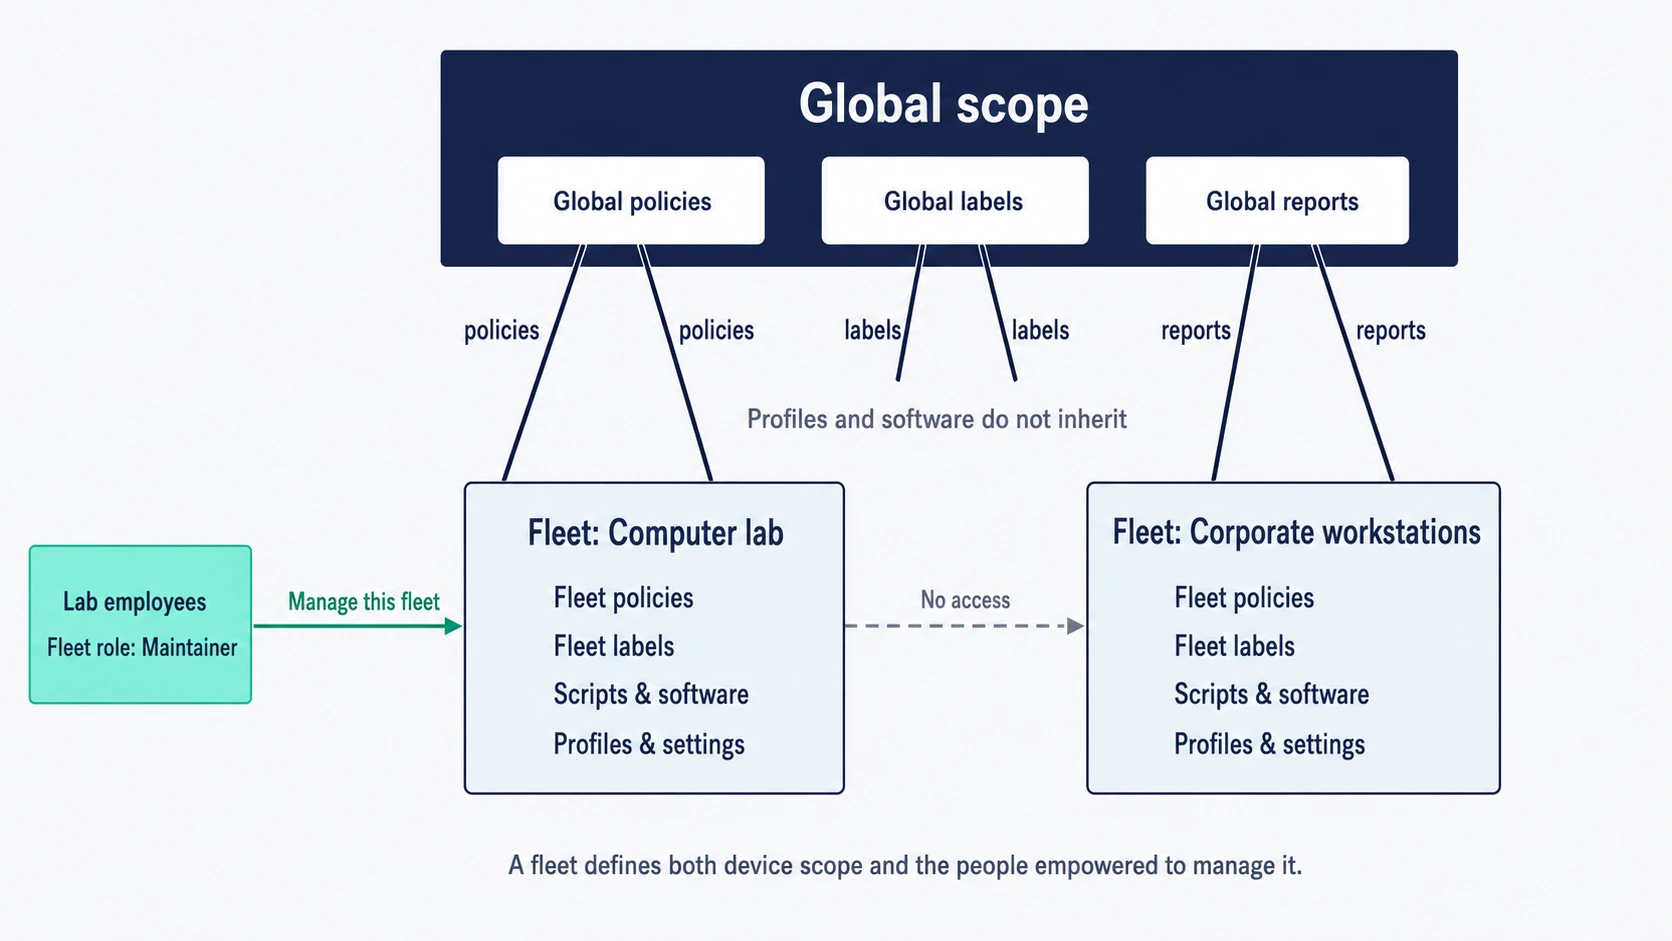
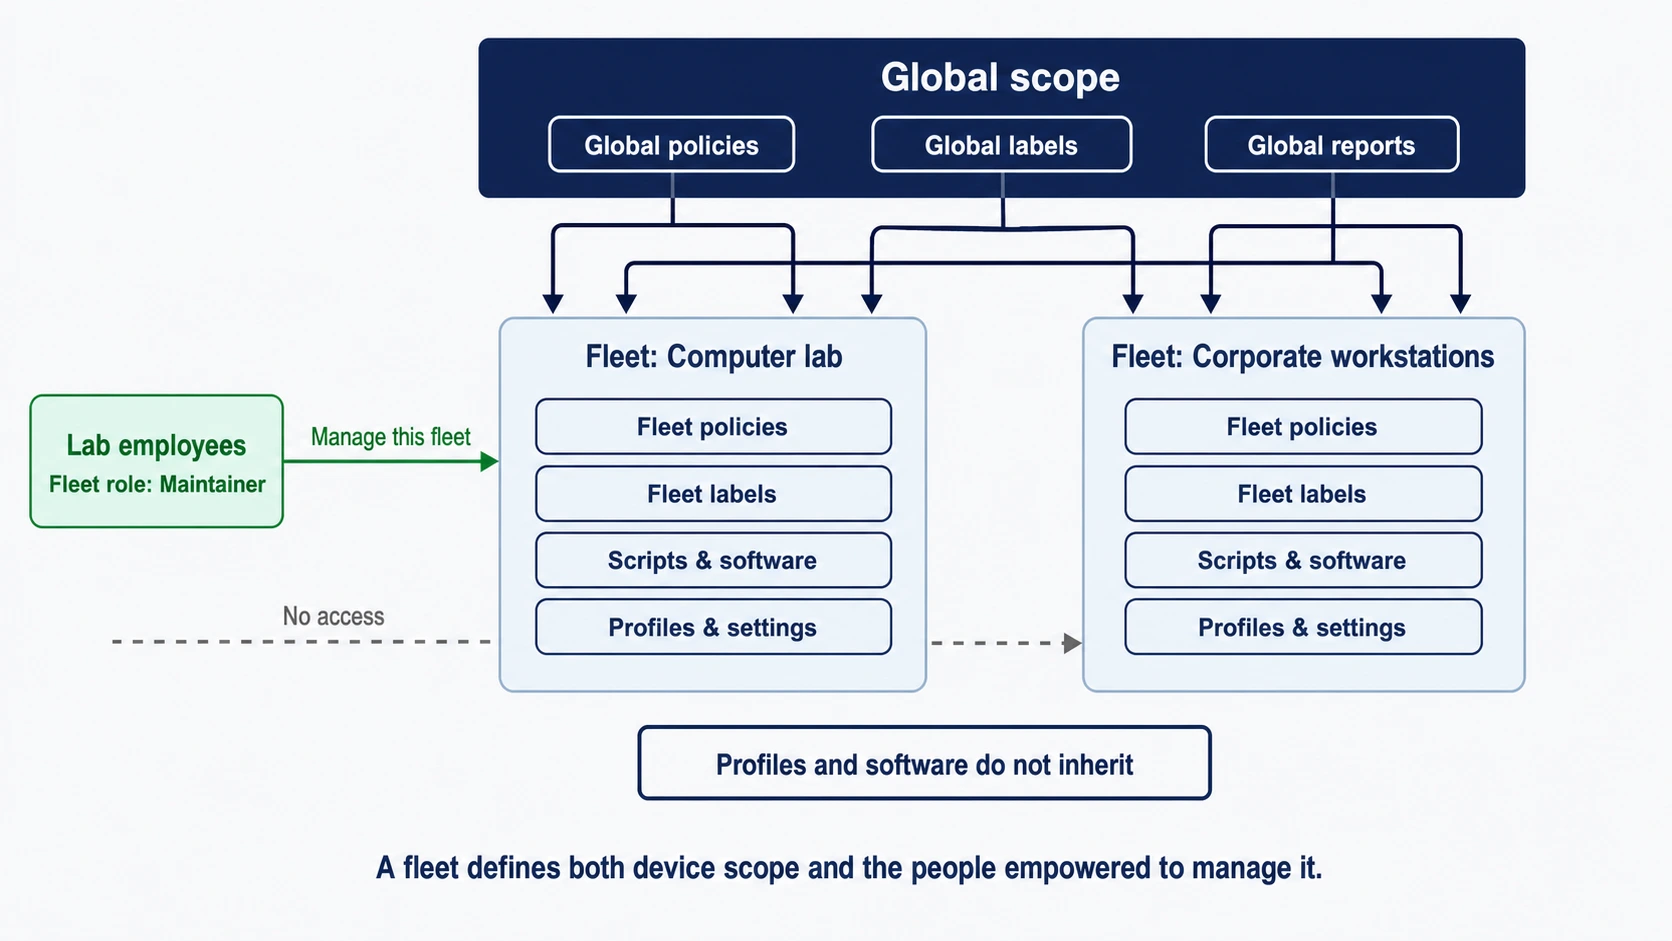
Fourth artwork pass: twelve of fifteen done
Six more finished. The tint rule worked: 1.1's five stages stay
distinguishable while the solid navy icons carry the weight, and the same
applies across the set. 1.3's delegation diagram fixed all three faults at
once. The two 1.6 diagrams now use matching colours for the three stores,
so they agree with each other, and the state model is the strongest
picture in the manual.

Three left, and they are different from each other.

1.2's five channels went backwards. The brace fix landed and the
composition broke around it: the osqueryd label overlaps the host outline
and is unreadable, the host and server no longer read as devices, and a
large empty gap sits between arrows 3 and 4. Its note now says to rebuild
from the version before last and change only the brace, rather than
re-rendering the whole thing, since full re-renders are what keeps
introducing these regressions.

1.3's fleets diagram fixed both earlier faults and broke the concept. The
two dashed label outlines now sit side by side as separate groups, so no
host is in both, which is the one thing the picture exists to show.

2.1 carries a wording error the prose fixed weeks ago. Its first panel
says "Fleet-hosted", which is not Fleet's term; Fleet says managed cloud
hosting, and the chapter deliberately avoids the other phrasing.

Claude-Session: https://claude.ai/code/session_01TyCHuHach8F1XQL3F8mUQ6

Changed region(s): [[0.0, 0.0308, 0.933, 0.8629], [0.2177, 0.8937, 0.8086, 0.9554]]

diff --git a/manual/01-foundations/1.3-hosts-fleets-labels.md b/manual/01-foundations/1.3-hosts-fleets-labels.md
@@ -103,15 +103,11 @@ When something did not arrive, check the item's scope before you check anything 
 
 The hosts move to Unassigned, carrying their history with them. That is the forgiving behaviour, but it means a deleted fleet silently drops every profile, policy, and package that was scoped to it from every host that was in it, and those hosts now sit in whatever baseline Unassigned carries.
 
-<!-- IMAGE-REDO: 1.3-fleet-scope-delegation.webp
-     WHY: reviewed 2026-08-24. The inheritance error is fixed: connectors are labelled
-     individually and "Profiles and software do not inherit" is stated. Three things to tidy.
-     **The label connectors stop in mid-air** instead of reaching the fleet panels, which
-     reads as labels not arriving, the opposite of what is meant. The "Profiles and software
-     do not inherit" line sits directly beneath those connectors, so it looks like an
-     annotation on labels rather than a general statement; move it clear or set it apart. And
-     "No access" now runs fleet to fleet, when it should run from the Lab employees box to
-     the Corporate workstations fleet, since it is a statement about people.
+<!-- IMAGE-OK: 1.3-fleet-scope-delegation.webp
+     NOTE: reviewed 2026-08-24 and kept. All three faults are fixed: connectors land on the
+     fleet panels, "Profiles and software do not inherit" is its own callout rather than an
+     annotation on the label arrows, and "No access" reads as a statement about people.
+     Prompt retained; do not delete.
      PROMPT: Global scope, fleet scope, and delegated administration
 Create a polished landscape 16:9 flat-vector diagram on an off-white (#F9FAFC) background. A wide top
 panel labelled "Global scope" contains "Global policies", "Global labels", and "Global
@@ -257,12 +253,14 @@ This constitutes a practical rollout pattern:
 If a case still feels ambiguous, the tiebreaker is time. Ask how long the grouping should survive. Something you expect to dissolve after a rollout is a label. Something you expect to outlive the people who set it up is a fleet.
 
 <!-- IMAGE-REDO: assets/1.3-fleets-scope-labels-target.webp
-     WHY: reviewed 2026-08-24. The shared laptop is filled green and the overlap now
-     reads, which was the main thing. Two problems. **The three panels are at full saturation
-     and two of them are completely empty**, so the loudest colours in the picture carry no
-     information. Drop all three to a 20 to 25 percent tint, and put two or three laptop
-     outlines inside Kiosks and Unassigned so the colour has something to describe. There are
-     also two captions saying nearly the same thing, top and bottom; keep only the bottom.
+     WHY: reviewed 2026-08-24. The tint is right and Kiosks and Unassigned now have hosts in
+     them, so both earlier faults are fixed. **A new one replaced them, and it breaks the
+     concept.** The two dashed label outlines now sit side by side as separate groups, so no
+     host is in both. The entire point of this picture, and the sentence under it, is that a
+     host can be in any number of labels at once. Draw the two outlines genuinely
+     overlapping, in the way a Venn diagram overlaps, so that exactly one laptop falls inside
+     both. That shared laptop is the green one, and it is the only reason the diagram
+     exists.
      PROMPT: Three large rounded rectangles side by side, all with the same pale blue fill,
      labelled "Fleet: Workstations", "Fleet: Kiosks", and "Unassigned". Above them:
      "Fleets scope: a host is in exactly one." Inside Workstations, eight identical laptop

diff --git a/manual/01-foundations/1.2-how-fleet-reaches-a-device.md b/manual/01-foundations/1.2-how-fleet-reaches-a-device.md
@@ -46,11 +46,10 @@ There is no process called `fleetd`. The name covers the set of components that 
 
 **ChromeOS is the exception.** In ChromeOS, fleetd is a Chrome extension with a service worker. No Orbit, no osqueryd, no Fleet Desktop.
 
-<!-- IMAGE-REDO: assets/1.2-fleetd-bundle.webp
-     WHY: not individually reviewed in this round, so this note is not a critique of
-     what is currently there. It is marked for a pass because it predates the fuller palette
-     guidance below, and its siblings all came back correct but flat. Look at it first and
-     skip the redo if it already reads well.
+<!-- IMAGE-OK: assets/1.2-fleetd-bundle.webp
+     NOTE: reviewed 2026-08-24 and kept. Solid green Orbit box anchors the picture, the two
+     supervised processes sit beneath it in pale blue, and the chain of custody is obvious at
+     a glance. Prompt retained; do not delete.
      PROMPT: One large rounded rectangle labelled "Host". Inside it, a box at the top
      spanning the width labelled "Orbit (fleetd)", and two smaller boxes side by side below
      it labelled "osqueryd" and "fleet-desktop". Two arrows point down from Orbit to those
@@ -127,13 +126,17 @@ Although the three osquery channels share one process, they are separate convers
 **One channel can affect another, in exactly one direction.** A Windows host on a relaxed MDM poll is woken by Orbit. If Orbit is wedged, queued MDM commands can sit for hours with nothing wrong in the MDM subsystem at all. It is the a case where the channels are not fully independent.
 
 <!-- IMAGE-REDO: assets/1.2-five-channels.webp
-     WHY: reviewed 2026-08-24. The dot colours work: five arrows now read as five
-     independent things, which is the whole claim. Two regressions from the previous version.
-     **The osqueryd brace is repeated three times, once per arrow**, when it should be one
-     brace spanning arrows 1 to 3; the point of that brace is that those three share a single
-     process, and three separate braces says the opposite. And the arrows float in the middle
-     of the frame without reaching either the laptop or the server, so nothing connects.
-     Extend them so they meet both.
+     WHY: reviewed 2026-08-24. **This one went backwards and should be rebuilt from the
+     version before last, changing only the brace.** The brace fix landed, and everything
+     around it broke. The "osqueryd" label now overlaps the host outline and is unreadable.
+     The host is a tall empty rectangle that no longer reads as a laptop, and the server is a
+     stack of loose lines. A large empty gap sits between arrows 3 and 4. The frame is much
+     taller than 16:9 and mostly white.
+     What was right two versions ago: a recognisable laptop on the left, a recognisable
+     server on the right, five evenly spaced arrows reaching both, and labels clear of every
+     shape. Restore that, then make the single change: **one brace spanning arrows 1 to 3**
+     labelled osqueryd, not three separate braces, because those three channels share one
+     process.
      PROMPT: A laptop on the left labelled "Host", a server on the right labelled "Fleet
      server", both drawn as simple flat outlines with no shading or perspective. Five
      horizontal arrows connect them, stacked vertically, all in #192147 and distinguished by

diff --git a/manual/01-foundations/1.6-the-fleet-server.md b/manual/01-foundations/1.6-the-fleet-server.md
@@ -25,11 +25,10 @@ Everything durable lives in MySQL, Redis, or object storage. That makes a Fleet 
 
 Most of what follows is a consequence of that: how Fleet scales, what a restart costs, what a backup has to cover, and what counts as an outage.
 
-<!-- IMAGE-REDO: assets/1.6-fleet-server-architecture.webp
-     WHY: not individually reviewed in this round, so this note is not a critique of
-     what is currently there. It is marked for a pass because it predates the fuller palette
-     guidance below, and its siblings all came back correct but flat. Look at it first and
-     skip the redo if it already reads well.
+<!-- IMAGE-OK: assets/1.6-fleet-server-architecture.webp
+     NOTE: reviewed 2026-08-24 and kept. Solid navy server anchors it, and the three stores
+     use the same colours as the state-model diagram in this chapter, so the two pictures
+     agree. Prompt retained; do not delete.
      PROMPT: A landscape architecture diagram. A central panel "Fleet server", subtitled
      "UI, API, device-work orchestration". To its left, "Administrators and automation"
      listing Fleet UI, fleetctl, GitOps, REST API. To its right, two stacked boxes: "fleetd
@@ -100,11 +99,10 @@ File carves go to MySQL. Carve blocks are written into the database, which works
 
 Software installers go to local disk, in a temporary directory, and Fleet logs that this is not suitable for production. That log line is not boilerplate. See what breaks under multiple instances, below.
 
-<!-- IMAGE-REDO: assets/1.6-fleet-service-state-model.webp
-     WHY: reviewed 2026-08-24. Structurally good, and the "loss costs" line beneath each
-     card earns its place; keep both. It is drawn almost entirely in hairline outlines with
-     fills so pale they read as white, so the three stores look interchangeable when the whole
-     point is that they are not. Colour and weight below.
+<!-- IMAGE-OK: assets/1.6-fleet-service-state-model.webp
+     NOTE: reviewed 2026-08-24 and kept, and it is the strongest diagram in the manual.
+     Tinted cards, per-item icons, the green bar marking MySQL as the store whose loss is
+     unrecoverable, and the "loss costs" line beneath each. Prompt retained; do not delete.
      PROMPT: A rounded rectangle at the top labelled "Fleet service", above three equal
      connected cards. MySQL lists: Configuration, Hosts and fleets and labels, Policies and
      reports, MDM command queues, Activity history. Redis lists: Live report coordination,

diff --git a/manual/02-administer-and-deploy-fleet/2.1-administration-model-and-deployment-choices.md b/manual/02-administer-and-deploy-fleet/2.1-administration-model-and-deployment-choices.md
@@ -30,10 +30,12 @@ It deliberately stops short of the mechanics. Connecting an identity provider is
 That order is the point. None of these decisions is difficult on its own. What makes them worth pausing over is that they are cheap to make now and awkward to unpick once a few thousand devices are enrolled and a support team has built habits around them.
 
 <!-- IMAGE-REDO: 2.1-setup-sequence.webp
-     WHY: not individually reviewed in this round, so this note is not a critique of
-     what is currently there. It is marked for a pass because it predates the fuller palette
-     guidance below, and its siblings all came back correct but flat. Look at it first and
-     skip the redo if it already reads well.
+     WHY: reviewed 2026-08-24. Reads well and the tints are right. One wording fix: the
+     first panel says "Fleet-hosted or self-hosted", but "Fleet-hosted" is not Fleet's term
+     and the chapter deliberately does not use it. Fleet says **managed cloud hosting**.
+     Change that panel to "Choose the operating model (managed cloud or self-hosted)". The
+     panels are also text-only while the comparable lifecycle diagram in 1.1 carries an icon
+     per stage; a simple navy icon in each would make them match.
      PROMPT: Fleet setup sequence
 Landscape five-stage setup sequence: Choose the operating model (Fleet-hosted or self-hosted);
 Establish administration (identity, roles, audit); Connect management services (Apple, Windows,

diff --git a/manual/01-foundations/1.1-what-fleet-is.md b/manual/01-foundations/1.1-what-fleet-is.md
@@ -51,13 +51,10 @@ Two more layers sit underneath. **Automation** through GitOps, fleetctl, the RES
 
 The rest of this manual follows that progression. Connect devices, understand them, manage them, automate the work, and operate the service.
 
-<!-- IMAGE-REDO: 1.1-fleet-management-lifecycle.webp
-     WHY: reviewed 2026-08-24. The headset is gone and Operate now reads correctly, so
-     that fix landed. **The colour went too far the other way.** Five large panels at full
-     saturation is loud enough to look like a children's infographic rather than a technical
-     manual, and that is my instruction's fault rather than yours. Keep the five dot colours
-     and the same order, but drop them to roughly a 20 to 25 percent tint so the panels read
-     as tinted rather than painted, and let the navy icons and type carry the weight.
+<!-- IMAGE-OK: 1.1-fleet-management-lifecycle.webp
+     NOTE: reviewed 2026-08-24 and kept. The tint is right: the five stages stay
+     distinguishable while the solid navy icons carry the weight, and Operate no longer reads
+     as a support desk. Prompt retained for regeneration; do not delete.
      PROMPT: Fleet management lifecycle
 Create a polished landscape 16:9 flat vector diagram for an enterprise endpoint-management
 manual. On a off-white (#F9FAFC) background, show a single horizontal five-stage lifecycle with five

diff --git a/manual/02-administer-and-deploy-fleet/2.5-activity-audit-logs-and-log-delivery.md b/manual/02-administer-and-deploy-fleet/2.5-activity-audit-logs-and-log-delivery.md
@@ -48,11 +48,10 @@ Most organizations reach for external delivery for one of three reasons, and the
 
 Decide which of these you are solving for, because it determines who should own the destination, who reads it, and how long it is kept. Settle those three before enabling anything.
 
-<!-- IMAGE-REDO: 2.5-activity-audit-lifecycle.webp
-     WHY: not individually reviewed in this round, so this note is not a critique of
-     what is currently there. It is marked for a pass because it predates the fuller palette
-     guidance below, and its siblings all came back correct but flat. Look at it first and
-     skip the redo if it already reads well.
+<!-- IMAGE-OK: 2.5-activity-audit-lifecycle.webp
+     NOTE: reviewed 2026-08-24 and kept. Accurate on the part that matters: "immediate, all
+     tiers" against "asynchronous, up to 5 minutes, Premium", with the three reasons for
+     external delivery as chips. Prompt retained; do not delete.
      PROMPT: DIAGRAM: Lifecycle diagram, one administrative action to two records. Left: an
      "Administrator makes a change" box. Two arrows right. Top arrow to "Activity record (in
      Fleet)", labelled "immediate, all tiers". Bottom arrow to "External destination",
